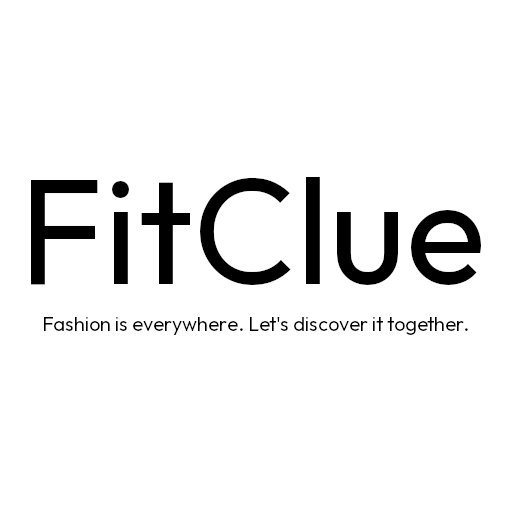
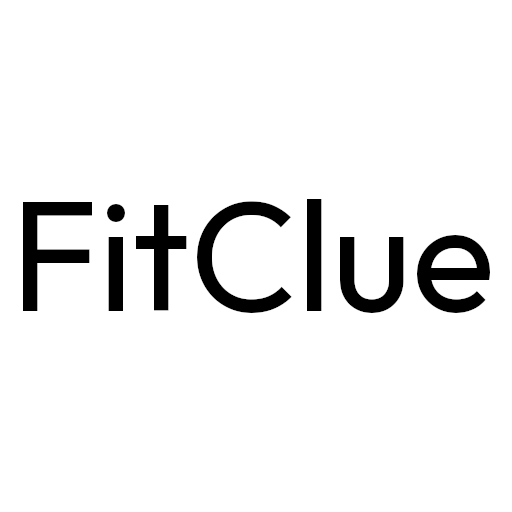
replace the img for splash

Changed region(s): [[0.0312, 0.3438, 0.9688, 0.6562]]

diff --git a/index.html b/index.html
@@ -106,7 +106,7 @@
 
 <body>
   <div id="splash">
-    <img src="/icon-512.png" alt="FitClue" />
+    <img src="/splash.png" alt="FitClue" />
   </div>
   <div id="root"></div>
   <script type="module" src="/src/main.jsx"></script>
